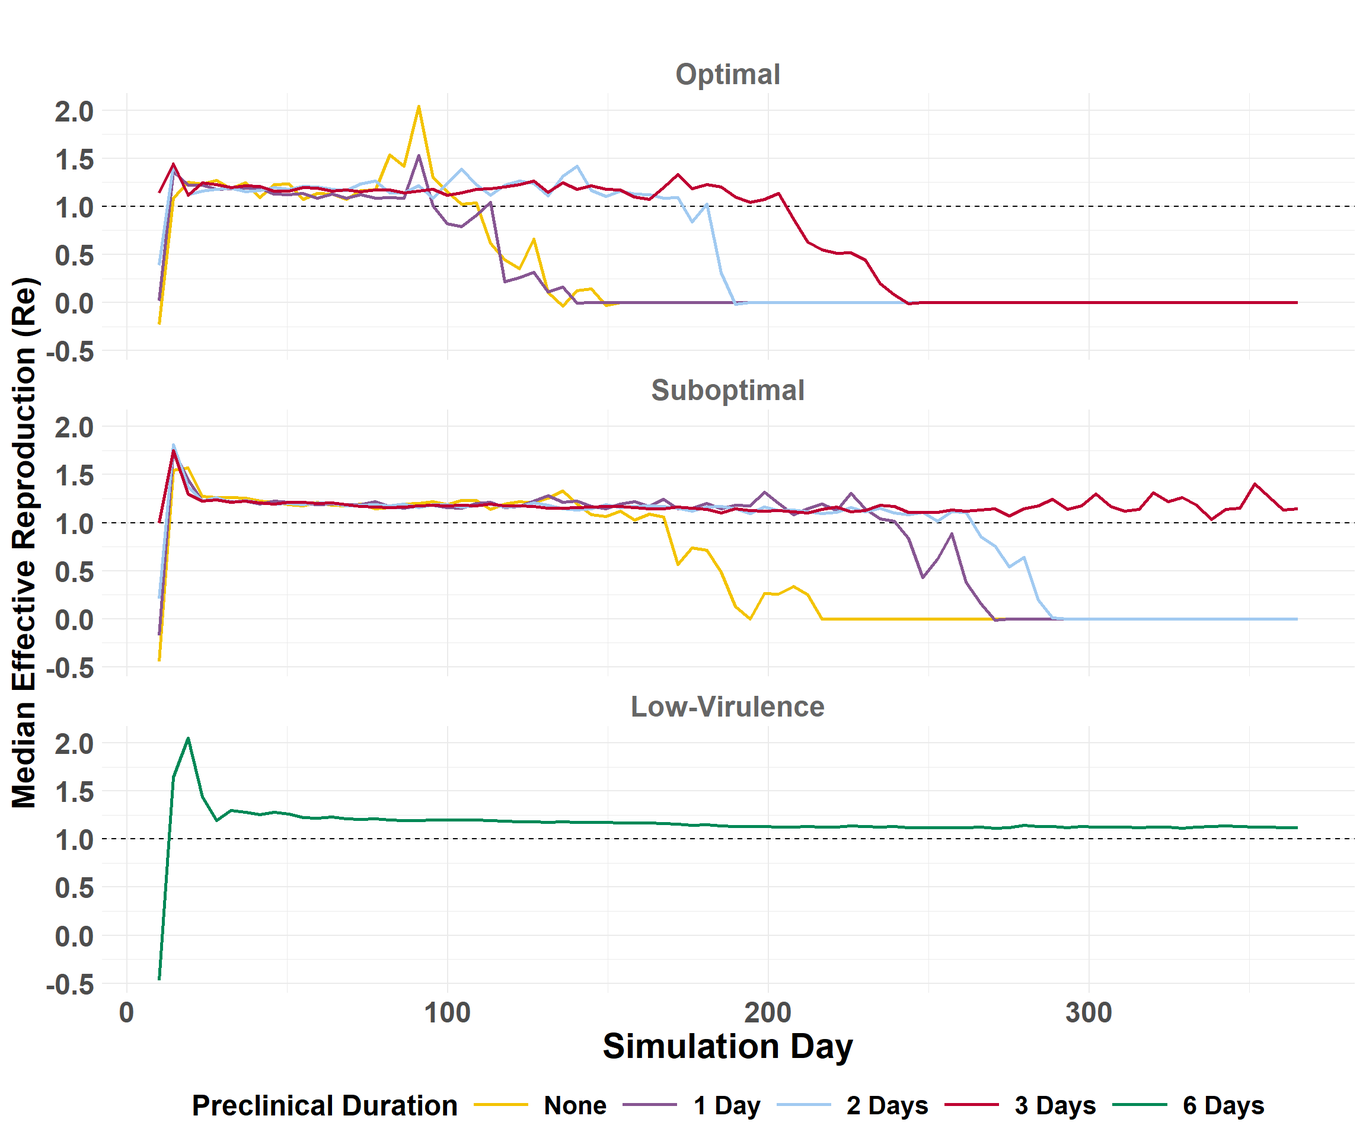
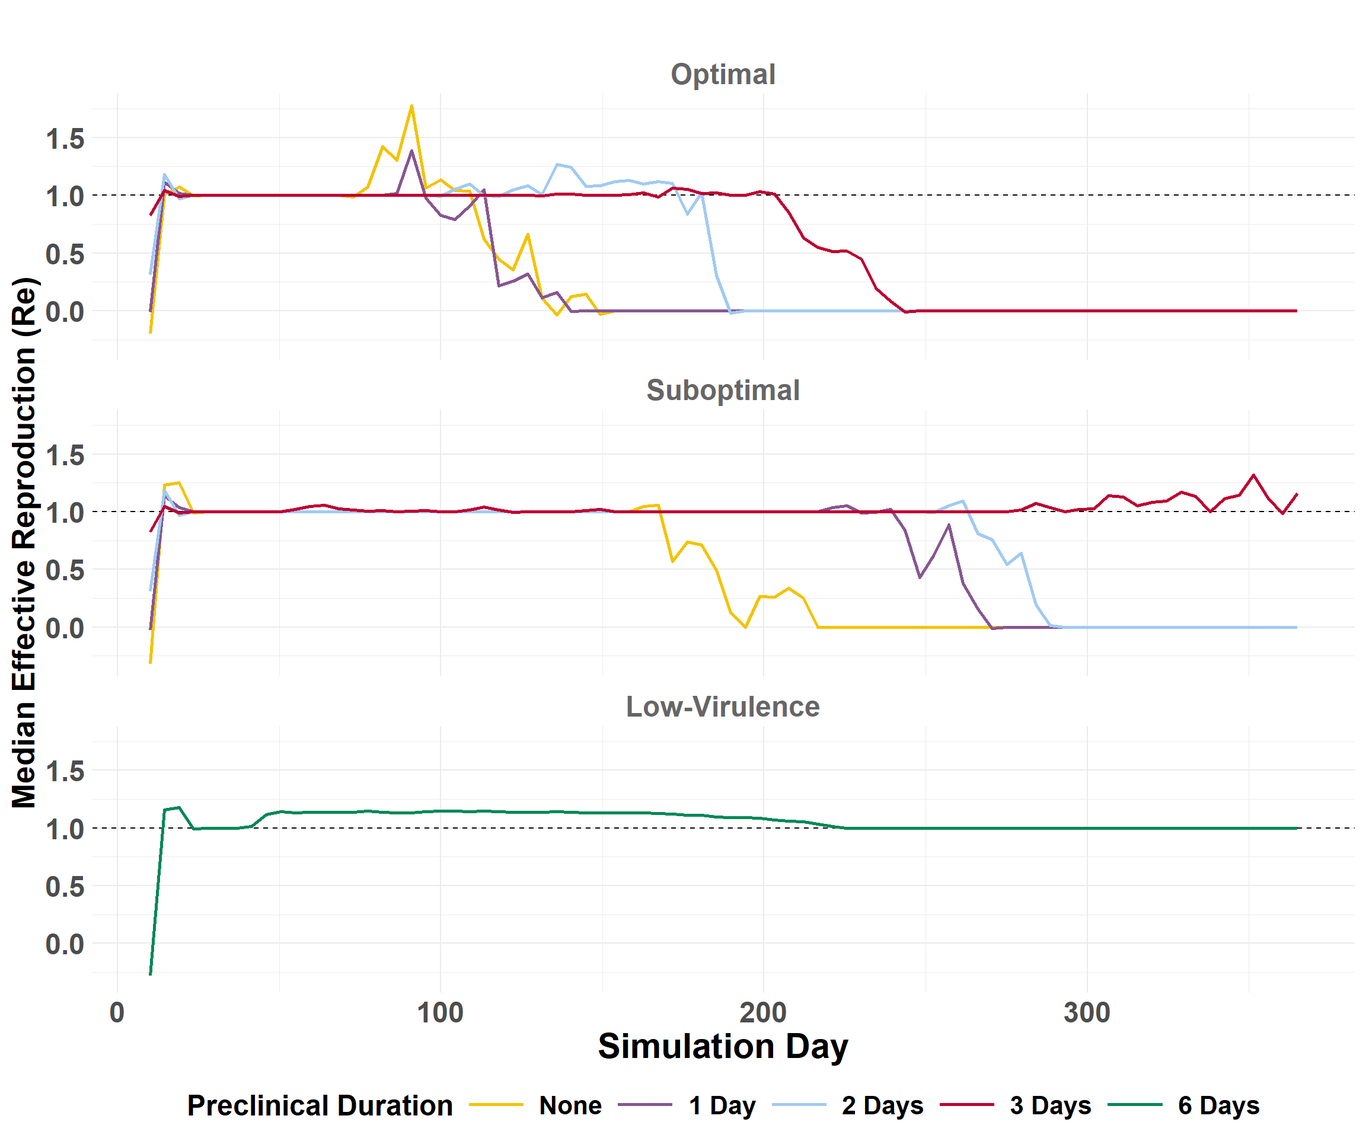
Render site

diff --git a/docs/spread.html b/docs/spread.html
@@ -238,20 +238,21 @@ pre {
 <span id="cb1-13"><a href="#cb1-13" aria-hidden="true" tabindex="-1"></a>daily_Re_summary <span class="ot">&lt;-</span> iteration_Re <span class="sc">%&gt;%</span></span>
 <span id="cb1-14"><a href="#cb1-14" aria-hidden="true" tabindex="-1"></a>  <span class="fu">group_by</span>(region, scenario_type, preclinical, infect_day) <span class="sc">%&gt;%</span></span>
 <span id="cb1-15"><a href="#cb1-15" aria-hidden="true" tabindex="-1"></a>  <span class="fu">summarize</span>(</span>
-<span id="cb1-16"><a href="#cb1-16" aria-hidden="true" tabindex="-1"></a>    <span class="at">cred_50   =</span> <span class="fu">mean</span>(Re, <span class="at">na.rm =</span> <span class="cn">TRUE</span>),</span>
-<span id="cb1-17"><a href="#cb1-17" aria-hidden="true" tabindex="-1"></a>    <span class="at">cred_025  =</span> <span class="fu">quantile</span>(Re, <span class="at">probs =</span> <span class="fl">0.025</span>, <span class="at">na.rm =</span> <span class="cn">TRUE</span>),</span>
-<span id="cb1-18"><a href="#cb1-18" aria-hidden="true" tabindex="-1"></a>    <span class="at">cred_25   =</span> <span class="fu">quantile</span>(Re, <span class="at">probs =</span> <span class="fl">0.25</span>, <span class="at">na.rm =</span> <span class="cn">TRUE</span>),</span>
-<span id="cb1-19"><a href="#cb1-19" aria-hidden="true" tabindex="-1"></a>    <span class="at">cred_75   =</span> <span class="fu">quantile</span>(Re, <span class="at">probs =</span> <span class="fl">0.75</span>, <span class="at">na.rm =</span> <span class="cn">TRUE</span>),</span>
-<span id="cb1-20"><a href="#cb1-20" aria-hidden="true" tabindex="-1"></a>    <span class="at">cred_975  =</span> <span class="fu">quantile</span>(Re, <span class="at">probs =</span> <span class="fl">0.975</span>, <span class="at">na.rm =</span> <span class="cn">TRUE</span>),</span>
-<span id="cb1-21"><a href="#cb1-21" aria-hidden="true" tabindex="-1"></a>    <span class="at">.groups   =</span> <span class="st">"drop"</span>)</span>
-<span id="cb1-22"><a href="#cb1-22" aria-hidden="true" tabindex="-1"></a></span>
-<span id="cb1-23"><a href="#cb1-23" aria-hidden="true" tabindex="-1"></a><span class="do">## Daily summary</span></span>
-<span id="cb1-24"><a href="#cb1-24" aria-hidden="true" tabindex="-1"></a>daily_Re <span class="ot">&lt;-</span> daily_Re_summary <span class="sc">%&gt;%</span></span>
-<span id="cb1-25"><a href="#cb1-25" aria-hidden="true" tabindex="-1"></a>  <span class="fu">group_by</span>(region, scenario_type, preclinical) <span class="sc">%&gt;%</span></span>
-<span id="cb1-26"><a href="#cb1-26" aria-hidden="true" tabindex="-1"></a>  <span class="fu">complete</span>(<span class="at">infect_day =</span> <span class="dv">10</span><span class="sc">:</span><span class="dv">365</span>, </span>
-<span id="cb1-27"><a href="#cb1-27" aria-hidden="true" tabindex="-1"></a>            <span class="at">fill =</span> <span class="fu">list</span>(<span class="at">cred_50 =</span> <span class="dv">0</span>, <span class="at">cred_025 =</span> <span class="dv">0</span>, </span>
-<span id="cb1-28"><a href="#cb1-28" aria-hidden="true" tabindex="-1"></a>                        <span class="at">cred_25 =</span> <span class="dv">0</span>, <span class="at">cred_75 =</span> <span class="dv">0</span>, <span class="at">cred_975 =</span> <span class="dv">0</span>)) <span class="sc">%&gt;%</span></span>
-<span id="cb1-29"><a href="#cb1-29" aria-hidden="true" tabindex="-1"></a>  <span class="fu">ungroup</span>()</span></code><button title="Copy to Clipboard" class="code-copy-button"><i class="bi"></i></button></pre></div>
+<span id="cb1-16"><a href="#cb1-16" aria-hidden="true" tabindex="-1"></a>    <span class="at">mean =</span> <span class="fu">mean</span>(Re, <span class="at">na.rm =</span> <span class="cn">TRUE</span>),</span>
+<span id="cb1-17"><a href="#cb1-17" aria-hidden="true" tabindex="-1"></a>    <span class="at">q05 =</span> <span class="fu">quantile</span>(Re, <span class="at">probs =</span> <span class="fl">0.05</span>, <span class="at">na.rm =</span> <span class="cn">TRUE</span>),</span>
+<span id="cb1-18"><a href="#cb1-18" aria-hidden="true" tabindex="-1"></a>    <span class="at">q25 =</span> <span class="fu">quantile</span>(Re, <span class="at">probs =</span> <span class="fl">0.25</span>, <span class="at">na.rm =</span> <span class="cn">TRUE</span>),</span>
+<span id="cb1-19"><a href="#cb1-19" aria-hidden="true" tabindex="-1"></a>    <span class="at">q50 =</span> <span class="fu">quantile</span>(Re, <span class="at">probs =</span> <span class="fl">0.50</span>, <span class="at">na.rm =</span> <span class="cn">TRUE</span>),</span>
+<span id="cb1-20"><a href="#cb1-20" aria-hidden="true" tabindex="-1"></a>    <span class="at">q75 =</span> <span class="fu">quantile</span>(Re, <span class="at">probs =</span> <span class="fl">0.75</span>, <span class="at">na.rm =</span> <span class="cn">TRUE</span>),</span>
+<span id="cb1-21"><a href="#cb1-21" aria-hidden="true" tabindex="-1"></a>    <span class="at">q95 =</span> <span class="fu">quantile</span>(Re, <span class="at">probs =</span> <span class="fl">0.95</span>, <span class="at">na.rm =</span> <span class="cn">TRUE</span>),</span>
+<span id="cb1-22"><a href="#cb1-22" aria-hidden="true" tabindex="-1"></a>    <span class="at">.groups   =</span> <span class="st">"drop"</span>)</span>
+<span id="cb1-23"><a href="#cb1-23" aria-hidden="true" tabindex="-1"></a></span>
+<span id="cb1-24"><a href="#cb1-24" aria-hidden="true" tabindex="-1"></a><span class="do">## Daily summary</span></span>
+<span id="cb1-25"><a href="#cb1-25" aria-hidden="true" tabindex="-1"></a>daily_Re <span class="ot">&lt;-</span> daily_Re_summary <span class="sc">%&gt;%</span></span>
+<span id="cb1-26"><a href="#cb1-26" aria-hidden="true" tabindex="-1"></a>  <span class="fu">group_by</span>(region, scenario_type, preclinical) <span class="sc">%&gt;%</span></span>
+<span id="cb1-27"><a href="#cb1-27" aria-hidden="true" tabindex="-1"></a>  <span class="fu">complete</span>(<span class="at">infect_day =</span> <span class="dv">10</span><span class="sc">:</span><span class="dv">365</span>, </span>
+<span id="cb1-28"><a href="#cb1-28" aria-hidden="true" tabindex="-1"></a>            <span class="at">fill =</span> <span class="fu">list</span>(<span class="at">mean =</span> <span class="dv">0</span>, <span class="at">q05 =</span> <span class="dv">0</span>, </span>
+<span id="cb1-29"><a href="#cb1-29" aria-hidden="true" tabindex="-1"></a>                        <span class="at">q25 =</span> <span class="dv">0</span>, <span class="at">q50 =</span> <span class="dv">0</span>, <span class="at">q75 =</span> <span class="dv">0</span>, <span class="at">q95 =</span> <span class="dv">0</span>)) <span class="sc">%&gt;%</span></span>
+<span id="cb1-30"><a href="#cb1-30" aria-hidden="true" tabindex="-1"></a>  <span class="fu">ungroup</span>()</span></code><button title="Copy to Clipboard" class="code-copy-button"><i class="bi"></i></button></pre></div>
 </details>
 </div>
 <section id="daily-summaries" class="level3">
@@ -260,7 +261,7 @@ pre {
 <ul class="nav nav-tabs" role="tablist"><li class="nav-item" role="presentation"><a class="nav-link active" id="tabset-1-1-tab" data-bs-toggle="tab" data-bs-target="#tabset-1-1" role="tab" aria-controls="tabset-1-1" aria-selected="true">Central U.S.</a></li><li class="nav-item" role="presentation"><a class="nav-link" id="tabset-1-2-tab" data-bs-toggle="tab" data-bs-target="#tabset-1-2" role="tab" aria-controls="tabset-1-2" aria-selected="false">Eastern U.S.</a></li></ul>
 <div class="tab-content">
 <div id="tabset-1-1" class="tab-pane active" role="tabpanel" aria-labelledby="tabset-1-1-tab">
-<p>View sample of daily summaries</p>
+<p>View subset of daily Re summary</p>
 <div class="cell">
 <details class="code-fold">
 <summary>Code</summary>
@@ -273,101 +274,79 @@ pre {
 <span id="cb2-7"><a href="#cb2-7" aria-hidden="true" tabindex="-1"></a>  <span class="fu">filter</span>(scenario_type <span class="sc">==</span> <span class="st">"suboptimal"</span>) <span class="sc">%&gt;%</span></span>
 <span id="cb2-8"><a href="#cb2-8" aria-hidden="true" tabindex="-1"></a>  <span class="fu">filter</span>(preclinical <span class="sc">==</span> <span class="st">"3"</span>)</span>
 <span id="cb2-9"><a href="#cb2-9" aria-hidden="true" tabindex="-1"></a></span>
-<span id="cb2-10"><a href="#cb2-10" aria-hidden="true" tabindex="-1"></a><span class="fu">head</span>(daily_Re_central_select)</span></code><button title="Copy to Clipboard" class="code-copy-button"><i class="bi"></i></button></pre></div>
+<span id="cb2-10"><a href="#cb2-10" aria-hidden="true" tabindex="-1"></a><span class="do">## Select and order columns to display</span></span>
+<span id="cb2-11"><a href="#cb2-11" aria-hidden="true" tabindex="-1"></a>daily_Re_central_select <span class="ot">&lt;-</span> daily_Re_central_select[<span class="fu">c</span>(<span class="st">"infect_day"</span>, <span class="st">"mean"</span>, <span class="st">"q05"</span>, <span class="st">"q25"</span>, <span class="st">"q50"</span>, <span class="st">"q75"</span>, <span class="st">"q95"</span>)]</span>
+<span id="cb2-12"><a href="#cb2-12" aria-hidden="true" tabindex="-1"></a></span>
+<span id="cb2-13"><a href="#cb2-13" aria-hidden="true" tabindex="-1"></a><span class="fu">head</span>(daily_Re_central_select)</span></code><button title="Copy to Clipboard" class="code-copy-button"><i class="bi"></i></button></pre></div>
 </details>
 <div class="cell-output-display">
 <div class="kable-table">
 <table class="caption-top table table-sm table-striped small">
-<colgroup>
-<col style="width: 9%">
-<col style="width: 15%">
-<col style="width: 13%">
-<col style="width: 12%">
-<col style="width: 10%">
-<col style="width: 10%">
-<col style="width: 9%">
-<col style="width: 9%">
-<col style="width: 10%">
-</colgroup>
 <thead>
 <tr class="header">
-<th style="text-align: left;">region</th>
-<th style="text-align: left;">scenario_type</th>
-<th style="text-align: left;">preclinical</th>
 <th style="text-align: right;">infect_day</th>
-<th style="text-align: right;">cred_50</th>
-<th style="text-align: right;">cred_025</th>
-<th style="text-align: right;">cred_25</th>
-<th style="text-align: right;">cred_75</th>
-<th style="text-align: right;">cred_975</th>
+<th style="text-align: right;">mean</th>
+<th style="text-align: right;">q05</th>
+<th style="text-align: right;">q25</th>
+<th style="text-align: right;">q50</th>
+<th style="text-align: right;">q75</th>
+<th style="text-align: right;">q95</th>
 </tr>
 </thead>
 <tbody>
 <tr class="odd">
-<td style="text-align: left;">central</td>
-<td style="text-align: left;">suboptimal</td>
-<td style="text-align: left;">3</td>
 <td style="text-align: right;">10</td>
 <td style="text-align: right;">0.000000</td>
 <td style="text-align: right;">0</td>
 <td style="text-align: right;">0</td>
 <td style="text-align: right;">0</td>
 <td style="text-align: right;">0</td>
+<td style="text-align: right;">0.000</td>
 </tr>
 <tr class="even">
-<td style="text-align: left;">central</td>
-<td style="text-align: left;">suboptimal</td>
-<td style="text-align: left;">3</td>
 <td style="text-align: right;">11</td>
 <td style="text-align: right;">2.155172</td>
 <td style="text-align: right;">1</td>
 <td style="text-align: right;">1</td>
+<td style="text-align: right;">2</td>
 <td style="text-align: right;">3</td>
-<td style="text-align: right;">5</td>
+<td style="text-align: right;">4.150</td>
 </tr>
 <tr class="odd">
-<td style="text-align: left;">central</td>
-<td style="text-align: left;">suboptimal</td>
-<td style="text-align: left;">3</td>
 <td style="text-align: right;">12</td>
 <td style="text-align: right;">1.771429</td>
 <td style="text-align: right;">1</td>
 <td style="text-align: right;">1</td>
+<td style="text-align: right;">1</td>
 <td style="text-align: right;">2</td>
-<td style="text-align: right;">4</td>
+<td style="text-align: right;">4.000</td>
 </tr>
 <tr class="even">
-<td style="text-align: left;">central</td>
-<td style="text-align: left;">suboptimal</td>
-<td style="text-align: left;">3</td>
 <td style="text-align: right;">13</td>
 <td style="text-align: right;">1.955095</td>
 <td style="text-align: right;">1</td>
 <td style="text-align: right;">1</td>
+<td style="text-align: right;">1</td>
 <td style="text-align: right;">2</td>
-<td style="text-align: right;">6</td>
+<td style="text-align: right;">5.000</td>
 </tr>
 <tr class="odd">
-<td style="text-align: left;">central</td>
-<td style="text-align: left;">suboptimal</td>
-<td style="text-align: left;">3</td>
 <td style="text-align: right;">14</td>
 <td style="text-align: right;">1.945014</td>
 <td style="text-align: right;">1</td>
 <td style="text-align: right;">1</td>
+<td style="text-align: right;">1</td>
 <td style="text-align: right;">2</td>
-<td style="text-align: right;">6</td>
+<td style="text-align: right;">5.425</td>
 </tr>
 <tr class="even">
-<td style="text-align: left;">central</td>
-<td style="text-align: left;">suboptimal</td>
-<td style="text-align: left;">3</td>
 <td style="text-align: right;">15</td>
 <td style="text-align: right;">1.886877</td>
 <td style="text-align: right;">1</td>
 <td style="text-align: right;">1</td>
+<td style="text-align: right;">1</td>
 <td style="text-align: right;">2</td>
-<td style="text-align: right;">6</td>
+<td style="text-align: right;">5.000</td>
 </tr>
 </tbody>
 </table>
@@ -376,6 +355,7 @@ pre {
 </div>
 </div>
 <div id="tabset-1-2" class="tab-pane" role="tabpanel" aria-labelledby="tabset-1-2-tab">
+<p>View subset of daily Re summary</p>
 <div class="cell">
 <details class="code-fold">
 <summary>Code</summary>
@@ -388,101 +368,79 @@ pre {
 <span id="cb3-7"><a href="#cb3-7" aria-hidden="true" tabindex="-1"></a>  <span class="fu">filter</span>(scenario_type <span class="sc">==</span> <span class="st">"suboptimal"</span>) <span class="sc">%&gt;%</span></span>
 <span id="cb3-8"><a href="#cb3-8" aria-hidden="true" tabindex="-1"></a>  <span class="fu">filter</span>(preclinical <span class="sc">==</span> <span class="st">"3"</span>)</span>
 <span id="cb3-9"><a href="#cb3-9" aria-hidden="true" tabindex="-1"></a></span>
-<span id="cb3-10"><a href="#cb3-10" aria-hidden="true" tabindex="-1"></a><span class="fu">head</span>(daily_Re_eastern_select)</span></code><button title="Copy to Clipboard" class="code-copy-button"><i class="bi"></i></button></pre></div>
+<span id="cb3-10"><a href="#cb3-10" aria-hidden="true" tabindex="-1"></a><span class="do">## Select and order columns to display</span></span>
+<span id="cb3-11"><a href="#cb3-11" aria-hidden="true" tabindex="-1"></a>daily_Re_eastern_select <span class="ot">&lt;-</span> daily_Re_eastern_select[<span class="fu">c</span>(<span class="st">"infect_day"</span>, <span class="st">"mean"</span>, <span class="st">"q05"</span>, <span class="st">"q25"</span>, <span class="st">"q50"</span>, <span class="st">"q75"</span>, <span class="st">"q95"</span>)]</span>
+<span id="cb3-12"><a href="#cb3-12" aria-hidden="true" tabindex="-1"></a></span>
+<span id="cb3-13"><a href="#cb3-13" aria-hidden="true" tabindex="-1"></a><span class="fu">head</span>(daily_Re_eastern_select)</span></code><button title="Copy to Clipboard" class="code-copy-button"><i class="bi"></i></button></pre></div>
 </details>
 <div class="cell-output-display">
 <div class="kable-table">
 <table class="caption-top table table-sm table-striped small">
-<colgroup>
-<col style="width: 9%">
-<col style="width: 15%">
-<col style="width: 13%">
-<col style="width: 12%">
-<col style="width: 10%">
-<col style="width: 10%">
-<col style="width: 9%">
-<col style="width: 9%">
-<col style="width: 10%">
-</colgroup>
 <thead>
 <tr class="header">
-<th style="text-align: left;">region</th>
-<th style="text-align: left;">scenario_type</th>
-<th style="text-align: left;">preclinical</th>
 <th style="text-align: right;">infect_day</th>
-<th style="text-align: right;">cred_50</th>
-<th style="text-align: right;">cred_025</th>
-<th style="text-align: right;">cred_25</th>
-<th style="text-align: right;">cred_75</th>
-<th style="text-align: right;">cred_975</th>
+<th style="text-align: right;">mean</th>
+<th style="text-align: right;">q05</th>
+<th style="text-align: right;">q25</th>
+<th style="text-align: right;">q50</th>
+<th style="text-align: right;">q75</th>
+<th style="text-align: right;">q95</th>
 </tr>
 </thead>
 <tbody>
 <tr class="odd">
-<td style="text-align: left;">eastern</td>
-<td style="text-align: left;">suboptimal</td>
-<td style="text-align: left;">3</td>
 <td style="text-align: right;">10</td>
 <td style="text-align: right;">0.000000</td>
 <td style="text-align: right;">0</td>
 <td style="text-align: right;">0</td>
+<td style="text-align: right;">0</td>
 <td style="text-align: right;">0.000</td>
-<td style="text-align: right;">0.000</td>
+<td style="text-align: right;">0.0</td>
 </tr>
 <tr class="even">
-<td style="text-align: left;">eastern</td>
-<td style="text-align: left;">suboptimal</td>
-<td style="text-align: left;">3</td>
 <td style="text-align: right;">11</td>
 <td style="text-align: right;">2.153846</td>
 <td style="text-align: right;">1</td>
 <td style="text-align: right;">1</td>
+<td style="text-align: right;">2</td>
 <td style="text-align: right;">3.000</td>
-<td style="text-align: right;">4.725</td>
+<td style="text-align: right;">4.0</td>
 </tr>
 <tr class="odd">
-<td style="text-align: left;">eastern</td>
-<td style="text-align: left;">suboptimal</td>
-<td style="text-align: left;">3</td>
 <td style="text-align: right;">12</td>
 <td style="text-align: right;">1.971014</td>
 <td style="text-align: right;">1</td>
 <td style="text-align: right;">1</td>
+<td style="text-align: right;">2</td>
 <td style="text-align: right;">3.000</td>
-<td style="text-align: right;">5.000</td>
+<td style="text-align: right;">4.6</td>
 </tr>
 <tr class="even">
-<td style="text-align: left;">eastern</td>
-<td style="text-align: left;">suboptimal</td>
-<td style="text-align: left;">3</td>
 <td style="text-align: right;">13</td>
 <td style="text-align: right;">2.043243</td>
 <td style="text-align: right;">1</td>
 <td style="text-align: right;">1</td>
+<td style="text-align: right;">1</td>
 <td style="text-align: right;">3.000</td>
-<td style="text-align: right;">5.400</td>
+<td style="text-align: right;">5.0</td>
 </tr>
 <tr class="odd">
-<td style="text-align: left;">eastern</td>
-<td style="text-align: left;">suboptimal</td>
-<td style="text-align: left;">3</td>
 <td style="text-align: right;">14</td>
 <td style="text-align: right;">1.878851</td>
 <td style="text-align: right;">1</td>
 <td style="text-align: right;">1</td>
+<td style="text-align: right;">1</td>
 <td style="text-align: right;">2.375</td>
-<td style="text-align: right;">5.000</td>
+<td style="text-align: right;">4.5</td>
 </tr>
 <tr class="even">
-<td style="text-align: left;">eastern</td>
-<td style="text-align: left;">suboptimal</td>
-<td style="text-align: left;">3</td>
 <td style="text-align: right;">15</td>
 <td style="text-align: right;">2.013787</td>
 <td style="text-align: right;">1</td>
 <td style="text-align: right;">1</td>
+<td style="text-align: right;">1</td>
 <td style="text-align: right;">3.000</td>
-<td style="text-align: right;">6.000</td>
+<td style="text-align: right;">5.0</td>
 </tr>
 </tbody>
 </table>
@@ -527,7 +485,7 @@ pre {
 <span id="cb4-22"><a href="#cb4-22" aria-hidden="true" tabindex="-1"></a>myCols <span class="ot">&lt;-</span> <span class="fu">kelly</span>()</span>
 <span id="cb4-23"><a href="#cb4-23" aria-hidden="true" tabindex="-1"></a></span>
 <span id="cb4-24"><a href="#cb4-24" aria-hidden="true" tabindex="-1"></a><span class="do">## Plot data</span></span>
-<span id="cb4-25"><a href="#cb4-25" aria-hidden="true" tabindex="-1"></a><span class="fu">ggplot</span>(daily_Re, <span class="fu">aes</span>(infect_day, cred_50, <span class="at">group =</span> preclinical, <span class="at">col =</span> preclinical)) <span class="sc">+</span></span>
+<span id="cb4-25"><a href="#cb4-25" aria-hidden="true" tabindex="-1"></a><span class="fu">ggplot</span>(daily_Re, <span class="fu">aes</span>(infect_day, q50, <span class="at">group =</span> preclinical, <span class="at">col =</span> preclinical)) <span class="sc">+</span></span>
 <span id="cb4-26"><a href="#cb4-26" aria-hidden="true" tabindex="-1"></a>  <span class="fu">geom_hline</span>(<span class="at">yintercept =</span> <span class="dv">1</span>, <span class="at">col=</span><span class="st">"black"</span>, <span class="at">linewidth=</span><span class="fl">0.5</span>, <span class="at">linetype =</span> <span class="st">"dashed"</span>) <span class="sc">+</span></span>
 <span id="cb4-27"><a href="#cb4-27" aria-hidden="true" tabindex="-1"></a>  <span class="fu">geom_smooth</span>(<span class="at">method =</span> <span class="st">"loess"</span>, <span class="at">span=</span><span class="fl">0.05</span>, <span class="at">se=</span><span class="cn">FALSE</span>) <span class="sc">+</span></span>
 <span id="cb4-28"><a href="#cb4-28" aria-hidden="true" tabindex="-1"></a>  <span class="fu">scale_color_manual</span>(<span class="at">values =</span> <span class="fu">c</span>(</span>
@@ -597,7 +555,7 @@ pre {
 <span id="cb5-22"><a href="#cb5-22" aria-hidden="true" tabindex="-1"></a>myCols <span class="ot">&lt;-</span> <span class="fu">kelly</span>()</span>
 <span id="cb5-23"><a href="#cb5-23" aria-hidden="true" tabindex="-1"></a></span>
 <span id="cb5-24"><a href="#cb5-24" aria-hidden="true" tabindex="-1"></a><span class="do">## Plot data</span></span>
-<span id="cb5-25"><a href="#cb5-25" aria-hidden="true" tabindex="-1"></a><span class="fu">ggplot</span>(daily_Re, <span class="fu">aes</span>(infect_day, cred_50, <span class="at">group =</span> preclinical, <span class="at">col =</span> preclinical)) <span class="sc">+</span></span>
+<span id="cb5-25"><a href="#cb5-25" aria-hidden="true" tabindex="-1"></a><span class="fu">ggplot</span>(daily_Re, <span class="fu">aes</span>(infect_day, q50, <span class="at">group =</span> preclinical, <span class="at">col =</span> preclinical)) <span class="sc">+</span></span>
 <span id="cb5-26"><a href="#cb5-26" aria-hidden="true" tabindex="-1"></a>  <span class="fu">geom_hline</span>(<span class="at">yintercept =</span> <span class="dv">1</span>, <span class="at">col=</span><span class="st">"black"</span>, <span class="at">linewidth=</span><span class="fl">0.5</span>, <span class="at">linetype =</span> <span class="st">"dashed"</span>) <span class="sc">+</span></span>
 <span id="cb5-27"><a href="#cb5-27" aria-hidden="true" tabindex="-1"></a>  <span class="fu">geom_smooth</span>(<span class="at">method =</span> <span class="st">"loess"</span>, <span class="at">span=</span><span class="fl">0.05</span>, <span class="at">se=</span><span class="cn">FALSE</span>) <span class="sc">+</span></span>
 <span id="cb5-28"><a href="#cb5-28" aria-hidden="true" tabindex="-1"></a>  <span class="fu">scale_color_manual</span>(<span class="at">values =</span> <span class="fu">c</span>(</span>
@@ -671,7 +629,7 @@ Eastern U.S. Region Only
 </section>
 <section id="compare-scenarios" class="level3">
 <h3 class="anchored" data-anchor-id="compare-scenarios">Compare Scenarios</h3>
-<p>Drop the low-virulence scenario from <code>combined_summary</code> and calculate percentiles</p>
+<p>Drop the low-virulence scenario from <code>combined_summary</code> and calculate quantiles</p>
 <div class="cell">
 <details class="code-fold">
 <summary>Code</summary>
@@ -730,7 +688,7 @@ Eastern U.S. Region Only
 <span id="cb9-16"><a href="#cb9-16" aria-hidden="true" tabindex="-1"></a></span>
 <span id="cb9-17"><a href="#cb9-17" aria-hidden="true" tabindex="-1"></a>myCols <span class="ot">&lt;-</span> <span class="fu">kelly</span>()</span>
 <span id="cb9-18"><a href="#cb9-18" aria-hidden="true" tabindex="-1"></a></span>
-<span id="cb9-19"><a href="#cb9-19" aria-hidden="true" tabindex="-1"></a><span class="fu">ggplot</span>(all_summary_compare, <span class="fu">aes</span>(infect_day, <span class="fu">log</span>(cred_50), </span>
+<span id="cb9-19"><a href="#cb9-19" aria-hidden="true" tabindex="-1"></a><span class="fu">ggplot</span>(all_summary_compare, <span class="fu">aes</span>(infect_day, <span class="fu">log</span>(q50), </span>
 <span id="cb9-20"><a href="#cb9-20" aria-hidden="true" tabindex="-1"></a>                               <span class="at">group =</span> scenario, <span class="at">col =</span> preclinical)) <span class="sc">+</span></span>
 <span id="cb9-21"><a href="#cb9-21" aria-hidden="true" tabindex="-1"></a>  <span class="fu">geom_line</span>(<span class="at">linewidth =</span> <span class="fl">0.4</span>) <span class="sc">+</span></span>
 <span id="cb9-22"><a href="#cb9-22" aria-hidden="true" tabindex="-1"></a>  <span class="fu">ylim</span>(<span class="dv">0</span>, <span class="dv">6</span>) <span class="sc">+</span></span>
